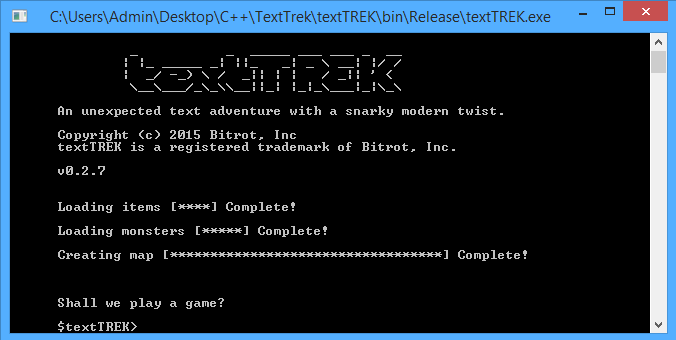
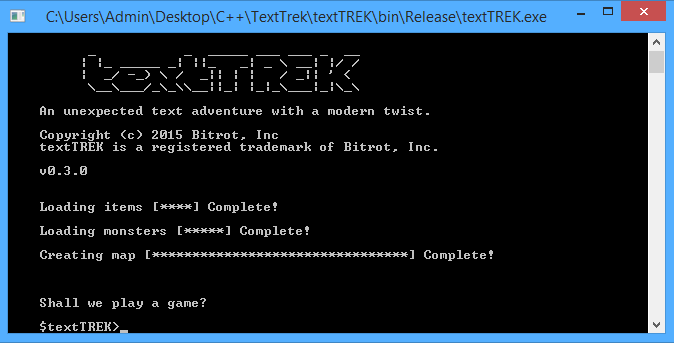
Adusted splash screen margin to work better on lower resolutios. updated screen shot for github

diff --git a/main.cpp b/main.cpp
@@ -58,7 +58,7 @@ Player randomPlayer();
 // *********************************
 
 // version
-string _VER = "0.2.7";
+string _VER = "0.3.0";
 // command prompt show to user when they type
 string _CMD_PROMPT = "$textTREK>";
 // global string for all user input
@@ -121,7 +121,7 @@ void splashScreen() {
         string Art;
         ifstream Reader1("_GAME_ART_TITLE.txt");
         Art = getFileContents (Reader1);       //Get file
-        cout << Art << "      v" + _VER + "\n\n";
+        cout << Art << "    v" + _VER + "\n\n";
         Reader1.close();
         populateWorld();
         Beep(56, 100);
@@ -138,7 +138,7 @@ void splashScreen() {
 void textTREK() {
     // song1();
     // Homage to War Games Movie
-    cout << "\n\n      Shall we play a game?\n\n      " << _CMD_PROMPT;
+    cout << "\n\n    Shall we play a game?\n\n    " << _CMD_PROMPT;
     // user input
     string in;
     cin >> in;
@@ -696,7 +696,7 @@ void populateWorld() {
 // ____________________
     // populate world items
     // --------------------
-	waitProgressBar("      Loading items", 4);
+	waitProgressBar("    Loading items", 4);
     _WORLD_ITEMS[0] = Item("Potion of Healing", "Drink this potion to heal thyself", 100, 0, 100, 100);
     _WORLD_ITEMS[1] = Item("Sword of Shadows", "Kills undead", 200, 40, 0, 78);
     _WORLD_ITEMS[2] = Item("Shield of Blocking", "A durable shield that can block heavy blows", 300, 0, 0, 30);
@@ -706,7 +706,7 @@ void populateWorld() {
     // ____________________
     // populate world monsters
     // --------------------
-    waitProgressBar("      Loading monsters", 5);
+    waitProgressBar("    Loading monsters", 5);
     // (name, age, damage, health, armor)
     _WORLD_MONSTERS[0] = Player("Ghoul", 30, 3, 10, 5);
     _WORLD_MONSTERS[1] = Player("Commander Ghoul", 80, 20, 100, 15);
@@ -734,7 +734,7 @@ void populateWorld() {
 */
 void createMap(){
 
-    cout << "\n" << "      Creating map" << " [";
+    cout << "\n" << "    Creating map" << " [";
      // ____________________
      // map first row
      // --------------------
